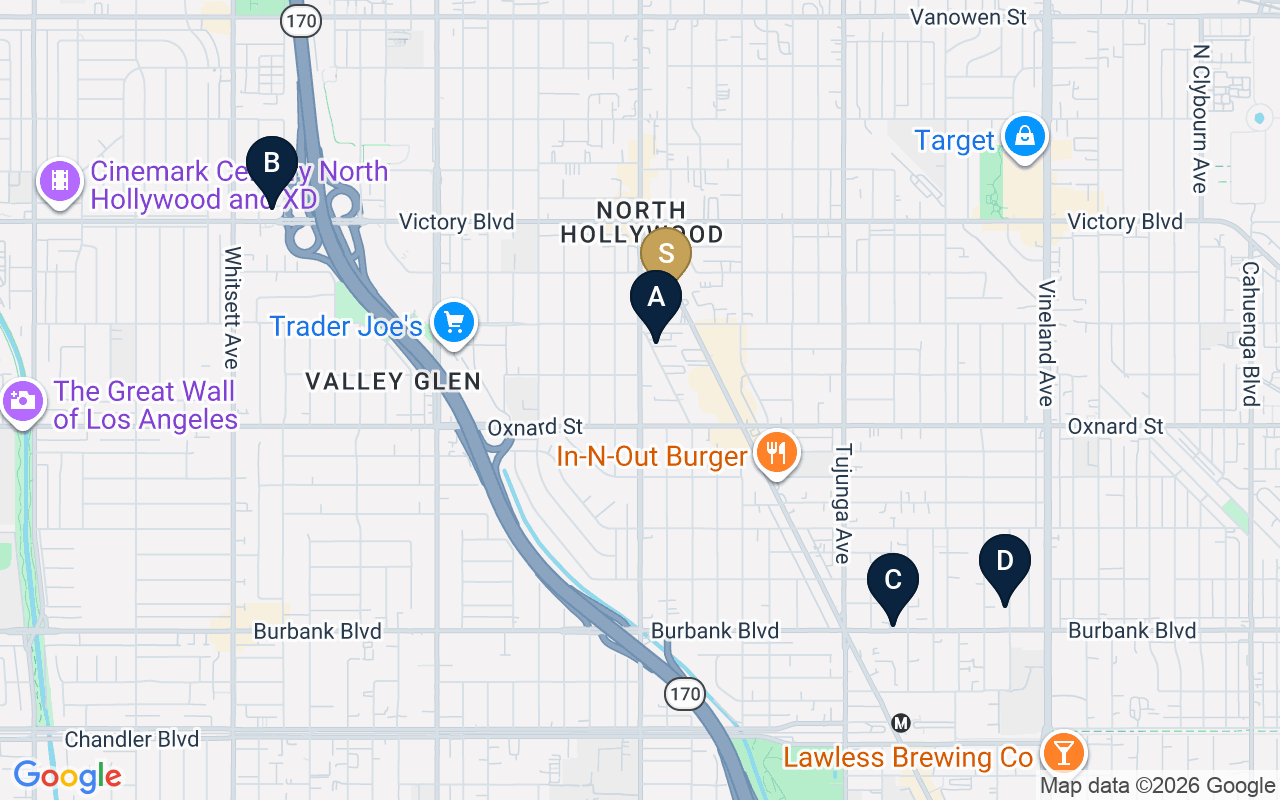
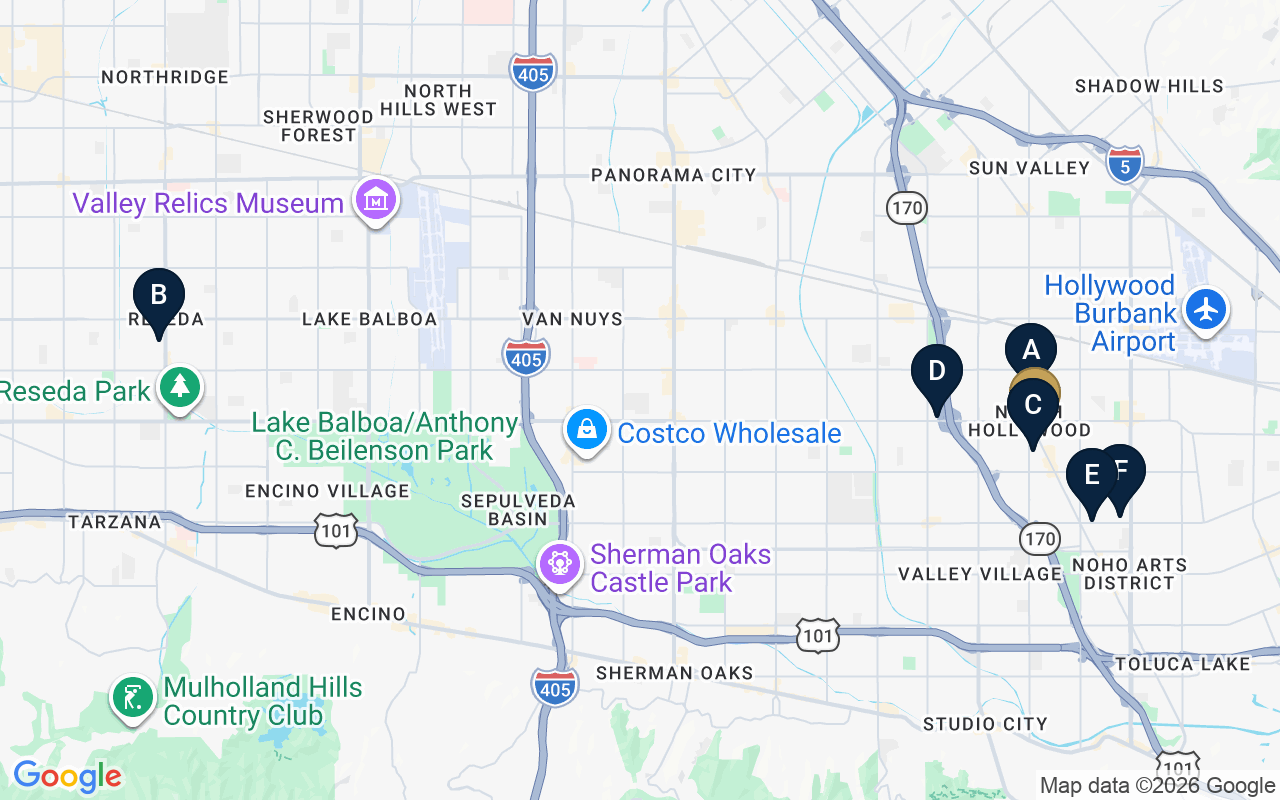
Add 2026 land comps: 6542-6552 Lankershim (4/26, \.8M) + 7008 Baird Reseda AMCAL (3/26, \.0M); update averages, takeaways, map

diff --git a/index.html b/index.html
@@ -173,7 +173,7 @@ footer a{color:#b8985a;text-decoration:none}
   </div>
 
   <h3>Location</h3>
-  <p>The site sits on Lankershim Blvd, the spine of North Hollywood, about a mile north of the NoHo Arts District and the Metro B (Red) Line terminus, with the NoHo West mixed-use development and the 170 Freeway minutes away. The corridor has drawn sustained developer demand: all four land comparables in this analysis closed within about 1.25 miles of the subject.</p>
+  <p>The site sits on Lankershim Blvd, the spine of North Hollywood, about a mile north of the NoHo Arts District and the Metro B (Red) Line terminus, with the NoHo West mixed-use development and the 170 Freeway minutes away. The corridor has drawn sustained developer demand: five of the six land comparables in this analysis closed within about 1.25 miles of the subject, the most recent on Lankershim Blvd itself in April 2026.</p>
   <div class="img-2up">
     <div><img src="images/aerial-context.png" alt="Neighborhood aerial context"><div class="cap">Neighborhood context: Victory Blvd and the 170 Freeway.</div></div>
     <div><img src="images/location-map.png" alt="Location map, North Hollywood"><div class="cap">North Hollywood location map.</div></div>
@@ -237,7 +237,7 @@ footer a{color:#b8985a;text-decoration:none}
       </div>
       <div class="pb-body"><ul>
         <li>Executive Directive 1: ministerial approval, no density limit, minimal parking.</li>
-        <li>The buyer pool behind two of the four land comps, at $18,000 to $33,000 per unit.</li>
+        <li>Affordable developers bought three of the six land comps, at $15,800 to $33,000 per unit.</li>
         <li>$18,274 per buildable unit at a $3.6M land basis.</li>
       </ul></div>
       <div class="pmetric"><span class="l">Exit</span><span class="v">100% affordable rental</span></div>
@@ -268,27 +268,29 @@ footer a{color:#b8985a;text-decoration:none}
 
 <section class="card" id="land-comps">
   <h2>Land Sale Comparables</h2>
-  <p>North Hollywood development land sales, priced per acre, with the buyer's program noted where known. All four are closed sales from the February 2025 analysis, each within about 1.25 miles of the subject.</p>
+  <p>San Fernando Valley development land sales, priced per acre, with the buyer's program noted where known. Five of the six are North Hollywood closings, the most recent on Lankershim Blvd itself at Victory Blvd in April 2026. The sixth, in Reseda, is the Valley's most recent affordable-development land sale and shows what LIHTC developers are paying per buildable unit.</p>
   <img class="full" src="images/land-comps-map.png" alt="Land sale comparables map">
   <div class="tbl-scroll">
   <table>
     <tr><th></th><th>Property</th><th>Status</th><th>Price</th><th>Lot Size</th><th>$/Acre</th><th>Zoning</th><th>COE</th><th>Buyer Program</th></tr>
     <tr class="subj"><td>S</td><td>6223 Lankershim Blvd<br>North Hollywood (land component)</td><td>Subject</td><td>$3,600,000</td><td>36,150 SF (0.83 ac)</td><td class="psf">$4,338,045</td><td>[Q]C2-1VL / [Q]R3-1</td><td></td><td>67 by-right / 132 AB 1287 / 197 ED1</td></tr>
-    <tr><td>A</td><td>6142 Hazelhurst Pl<br>North Hollywood</td><td><span class="b-closed">Closed</span></td><td>$1,875,000</td><td>16,553 SF (0.38 ac)</td><td class="psf">$4,934,210</td><td>R3-1</td><td>11/18/2024</td><td>Sold to an ED1 developer, roughly $18,000 per ED1 unit</td></tr>
-    <tr><td>B</td><td>12409 Victory Blvd<br>North Hollywood</td><td><span class="b-closed">Closed</span></td><td>$4,950,000</td><td>35,284 SF (0.81 ac)</td><td class="psf">$6,111,111</td><td>R4</td><td>11/08/2024</td><td>Buyer building an elementary and middle school</td></tr>
-    <tr><td>C</td><td>11303 Burbank Blvd<br>North Hollywood</td><td><span class="b-closed">Closed</span></td><td>$1,650,000</td><td>10,454 SF (0.24 ac)</td><td class="psf">$6,875,000</td><td>C2</td><td>02/21/2024</td><td>27 units by right ($61,000/unit) or 48 with TOC bonus ($34,000/unit)</td></tr>
-    <tr><td>D</td><td>5625 Case Ave<br>North Hollywood</td><td><span class="b-closed">Closed</span></td><td>$2,300,000</td><td>16,117 SF (0.37 ac)</td><td class="psf">$6,216,216</td><td>RD1.5</td><td>03/01/2024</td><td>ED1 buyer, 70-unit 100% affordable building ($33,000/unit)</td></tr>
-    <tr><td></td><td><strong>Comparable Averages</strong></td><td></td><td><strong>$2,693,750</strong></td><td><strong>0.45 ac</strong></td><td class="psf"><strong>$6,034,134</strong></td><td></td><td></td><td></td></tr>
+    <tr><td>A</td><td>6542-6552 Lankershim Blvd<br>North Hollywood</td><td><span class="b-closed">Closed</span></td><td>$2,800,000</td><td>24,929 SF (0.57 ac)</td><td class="psf">$4,892,615</td><td>C2-1VL</td><td>04/07/2026</td><td>Two-parcel service station assemblage at Lankershim and Victory, less than half a mile north of the subject ($112.32 per SF of land)</td></tr>
+    <tr><td>B</td><td>7008-7018 Baird Ave<br>Reseda</td><td><span class="b-closed">Closed</span></td><td>$3,000,000</td><td>34,651 SF (0.80 ac)</td><td class="psf">$3,771,320</td><td>(Q)R2-2D-CDO-RIO</td><td>03/25/2026</td><td>AMCAL Multi-Housing, planned 190-unit six-story affordable project (La Estancia), roughly $15,800 per buildable unit, backed by LIHTC and $34.4M in tax-exempt bonds</td></tr>
+    <tr><td>C</td><td>6142 Hazelhurst Pl<br>North Hollywood</td><td><span class="b-closed">Closed</span></td><td>$1,875,000</td><td>16,553 SF (0.38 ac)</td><td class="psf">$4,934,210</td><td>R3-1</td><td>11/18/2024</td><td>Sold to an ED1 developer, roughly $18,000 per ED1 unit</td></tr>
+    <tr><td>D</td><td>12409 Victory Blvd<br>North Hollywood</td><td><span class="b-closed">Closed</span></td><td>$4,950,000</td><td>35,284 SF (0.81 ac)</td><td class="psf">$6,111,111</td><td>R4</td><td>11/08/2024</td><td>Buyer building an elementary and middle school</td></tr>
+    <tr><td>E</td><td>11303 Burbank Blvd<br>North Hollywood</td><td><span class="b-closed">Closed</span></td><td>$1,650,000</td><td>10,454 SF (0.24 ac)</td><td class="psf">$6,875,000</td><td>C2</td><td>02/21/2024</td><td>27 units by right ($61,000/unit) or 48 with TOC bonus ($34,000/unit)</td></tr>
+    <tr><td>F</td><td>5625 Case Ave<br>North Hollywood</td><td><span class="b-closed">Closed</span></td><td>$2,300,000</td><td>16,117 SF (0.37 ac)</td><td class="psf">$6,216,216</td><td>RD1.5</td><td>03/01/2024</td><td>ED1 buyer, 70-unit 100% affordable building ($33,000/unit)</td></tr>
+    <tr><td></td><td><strong>Comparable Averages</strong></td><td></td><td><strong>$2,762,500</strong></td><td><strong>0.53 ac</strong></td><td class="psf"><strong>$5,466,745</strong></td><td></td><td></td><td></td></tr>
   </table>
   </div>
-  <div class="cap">Comp set from the February 2025 LAAA analysis. Lot sizes converted to SF from the recorded acreage. The averages row averages the four comparables.</div>
+  <div class="cap">Comps C through F are from the February 2025 LAAA analysis; the two 2026 sales were added August 2026 (the Lankershim sale is verified against the LA County Assessor transfer record, and the Reseda sale is buyer-confirmed per CoStar). Lot sizes converted to SF from the recorded acreage where needed. The averages row averages the six comparables.</div>
 </section>
 
 <section class="card" id="takeaways">
   <h2>Key Takeaways</h2>
   <div class="tk-grid">
-    <div class="tk"><span class="n">1</span>North Hollywood development land closed between $4.93M and $6.88M per acre across the comp set (average $6.03M per acre). The subject land guidance of $4.34M per acre sits below every comparable on a per-acre basis, reflecting its larger size and the value of pricing to move.</div>
-    <div class="tk"><span class="n">2</span>ED1 and density-bonus programs set the pace: three of the four land comps carried buildable-unit underwriting of $18,000 to $34,000 per unit. At $3.6M the subject prices at $27,273 per AB 1287 unit and $18,274 per ED1 unit, inside the range those buyers have already paid nearby.</div>
+    <div class="tk"><span class="n">1</span>North Hollywood development land closed between $4.93M and $6.88M per acre in 2024. The two 2026 closings printed $4.89M per acre on Lankershim at Victory (April 2026) and $3.77M per acre in Reseda (March 2026), bracketing the subject guidance of $4.34M per acre: priced to today's market, not to the 2024 peak.</div>
+    <div class="tk"><span class="n">2</span>Affordable and density-bonus programs set the pace: four of the six land comps carried buildable-unit underwriting of $15,800 to $34,000 per unit. At $3.6M the subject prices at $27,273 per AB 1287 unit and $18,274 per ED1 unit, inside the range those buyers have paid across the Valley.</div>
     <div class="tk"><span class="n">3</span>Valley motels traded between $156,600 and $280,769 per room. At $212,500 per room the Silver Saddle prices mid-band while carrying 43,578 SF of land, more than 60% larger than any comparable's lot (the largest was 27,007 SF), so the room price is backstopped by redevelopment value.</div>
     <div class="tk"><span class="n">4</span>All four parcels sit under common family ownership: a contiguous 79,728 SF (1.83 acre) TOC Tier 1 assemblage on Lankershim Blvd, an offering size that essentially never reaches this corridor in one transaction.</div>
     <div class="tk"><span class="n">5</span>The components stand alone: the motel can sell to a hospitality operator while ownership develops the land, or the entire assemblage can go to a single developer as one of the largest sites in North Hollywood.</div>
@@ -331,7 +333,7 @@ footer a{color:#b8985a;text-decoration:none}
     <tr><td>$3,100,000</td><td>$85.76</td><td>$46,269</td><td>$23,485</td><td>$15,736</td></tr>
   </table>
   </div>
-  <div class="info-callout"><strong>Basis and timing:</strong> pricing guidance and the comparable set are from the February 2025 LAAA proposal for this property. Before going to market, the LAAA Team will refresh the comparable set and reconfirm pricing against then-current land and hospitality conditions.</div>
+  <div class="info-callout"><strong>Basis and timing:</strong> pricing guidance is from the February 2025 LAAA proposal for this property. The land comparable set was updated in August 2026 with the two most recent Valley land closings, which support the guidance. The LAAA Team will reconfirm final pricing with ownership before going to market.</div>
 </section>
 
 <section class="card" id="marketing">
